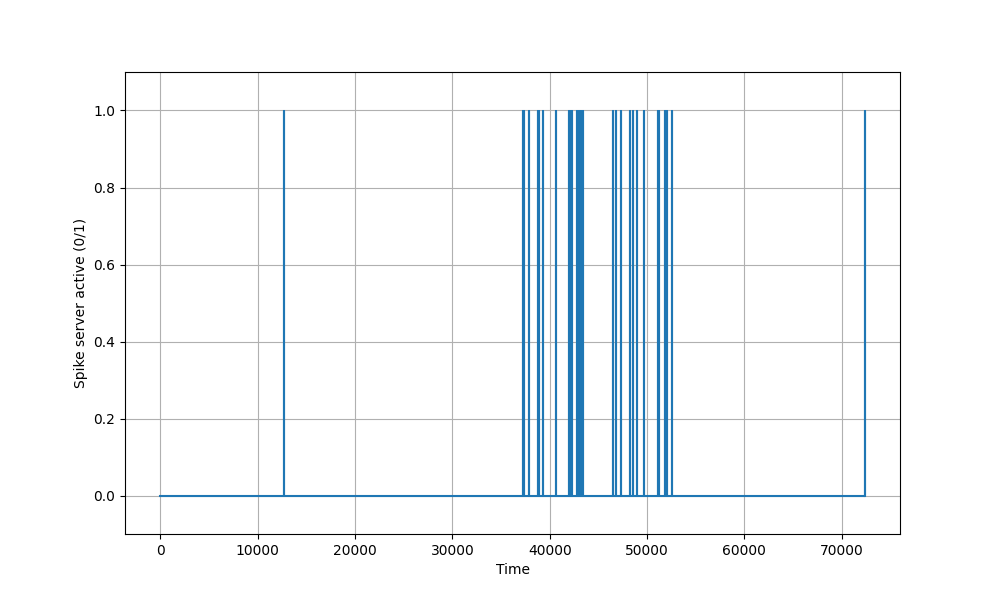
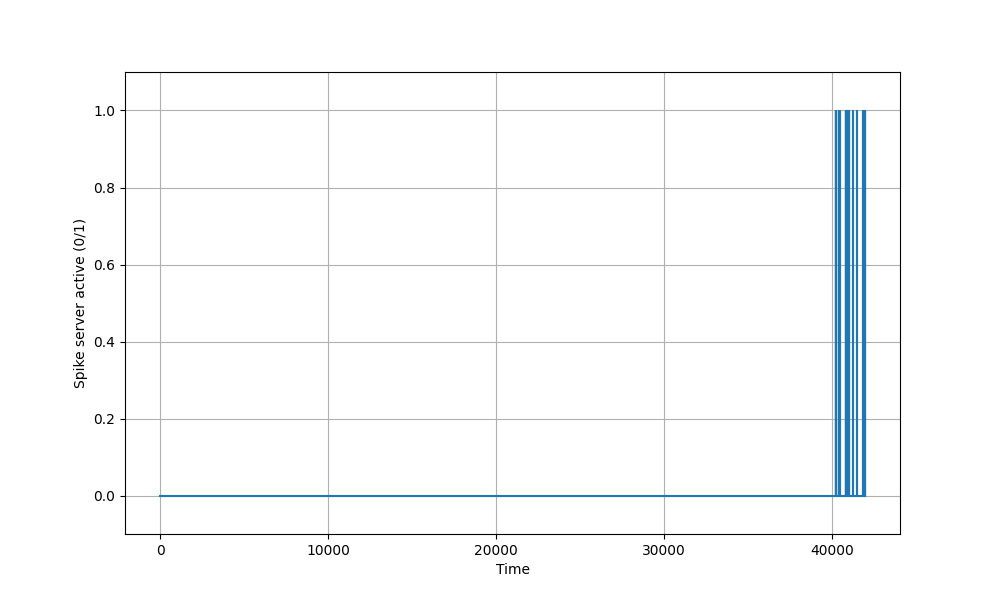
fine scaling dinamico
Modificato SImax con valore corretto

diff --git a/simulation/scaling_simulator.py b/simulation/scaling_simulator.py
@@ -197,19 +197,20 @@ def execute(stats, stop):
             adjust_servers_layer1(stats, lambda_current=lam_now)
             mB_now = max(1, len(stats.layer1_servers))
 
+            
+            is_anomalous = lam_now > (vs.LAMBDA_NORMAL_MAX + vs.ANOM_EPS)
+            
+
             #salva lambda per i plot
             if not hasattr(stats, "lambda_times"):
                 stats.lambda_times = []
             stats.lambda_times.append((stats.t.current, lam_now))
 
-            SI = len(stats.B_jobs)
-            stats.SI_samples.append(SI)
-
             nB = len(stats.B_jobs)
 
             SI_excess_after = max(0, (nB + 1) - mB_now)
 
-            if SI_excess_after < SImax:
+            if (not is_anomalous) or SI_excess_after < SImax:
                 # layer 1 NON saturo → va in B
                 jid_B = stats.next_job_id
                 stats.next_job_id += 1

diff --git a/utils/variables.py b/utils/variables.py
@@ -48,14 +48,15 @@ REPLICATIONS = 10
 PRINT_PLOT_BATCH = 1
 
 # --- PARAMETRI DI SCALING ---
-SImax = 15 
+SImax = 8 
 MIN_SERVERS = 1
 MAX_SERVERS = 2 #calcolato analiticamente 
 RHO_UP = 0.8 #rho target per scalare up
 RHO_DOWN = 0.5 #rho target per scalare down
 BASE_MU_LAYER1 = 1.25     # 1 / mean service time
 BASE_MU_SPIKE = 1.875      # spike più veloce (vertical scaling) -> 1.25 * k = 1.25 * 1.5 perche k > 1
-
+LAMBDA_NORMAL_MAX = 1.5   # dato che la sinusoide va 0.9 → 1.5
+ANOM_EPS = 0.05  # tolleranza per rilevamento anomalia
 
 def set_simulation(model, type):
     global SIM_TYPE, MODEL 
